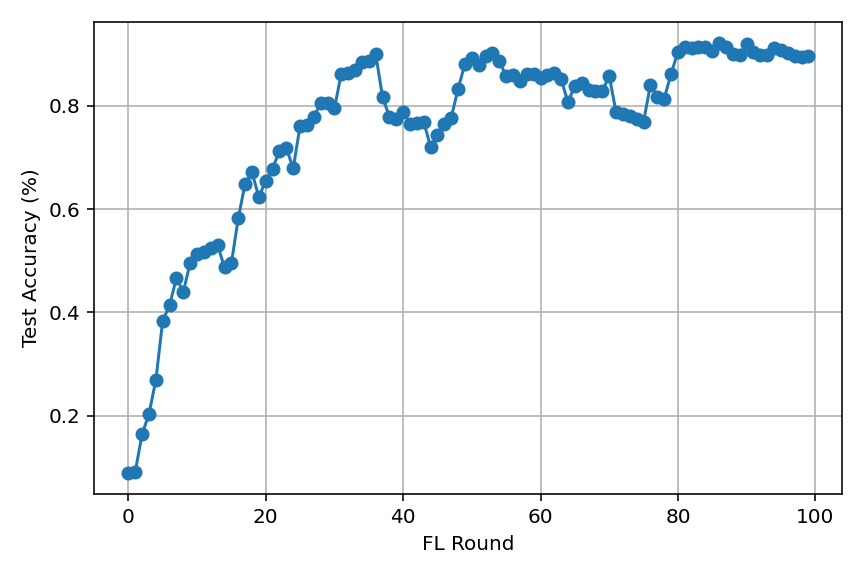
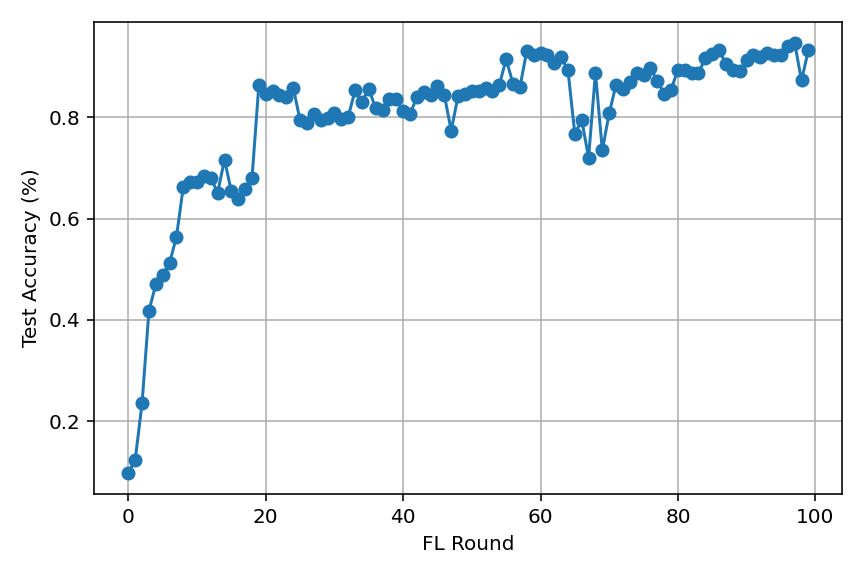
Reliability first

Changed region(s): [[0.0312, 0.0625, 0.9688, 0.8438], [0.0312, 0.1562, 0.0938, 0.2188], [0.0625, 0.3438, 0.0938, 0.4062]]

diff --git a/light_mappo/envs/env_core.py b/light_mappo/envs/env_core.py
@@ -28,7 +28,7 @@ class EnvCore(object):
 
         self.h_min = 100.0
         self.h_max = 500.0
-        self.dh_max = 20.0
+        self.dh_max = 10.0
 
         # Use same meaning as args.snr_th
         self.snr_th = 0
@@ -84,7 +84,9 @@ class EnvCore(object):
         
         self.h = init_altitudes(self.agent_num, self.h_min, self.h_max, seed=ep_seed + 1).astype(np.float32)
         self.last_selected = np.zeros(self.agent_num, dtype=np.float32)
-
+        self.sel_ema = np.zeros(self.agent_num, dtype=np.float32) 
+        self.prev_delta_h = np.zeros(self.agent_num, dtype=np.float32)
+        
         obs_n = self._build_obs()
         return [obs_n[i].astype(np.float32) for i in range(self.agent_num)]
 
@@ -98,7 +100,8 @@ class EnvCore(object):
     
         # ---- map policy outputs -> env variables ----
         delta_h = np.clip(a[:, 0], -1.0, 1.0) * self.dh_max                # meters
-        scores  = (np.clip(a[:, 1], -1.0, 1.0) + 1.0) * 0.5                # [0,1]
+        a1 = a[:, 1]                          # raw score head
+        scores = 0.5 * (np.tanh(a1) + 1.0)                # [0,1]
     
         # ---- altitude update with constraints (C1, C2) ----
         self.h = np.clip(self.h + delta_h, self.h_min, self.h_max).astype(np.float32)
@@ -129,6 +132,11 @@ class EnvCore(object):
         selected = np.zeros(self.agent_num, dtype=np.float32)
         selected[idx] = 1.0
     
+        rho = 0.05
+        p_star = self.K / float(self.agent_num)
+        fair_def = np.clip(p_star - self.sel_ema, 0.0, 1.0).astype(np.float32)
+        self.sel_ema = (1.0 - rho) * self.sel_ema + rho * selected
+
         # ============================================================
         # Reward matches your Problem Formulation:
         #   maximize sum_{selected} utility  - lambda_e * control_cost
@@ -138,9 +146,8 @@ class EnvCore(object):
         # Keep it simple + paper-aligned:
         # reliability is primary; optionally include data_ratio to prefer "useful updates".
         # If you later want fairness, add it in the *utility* (not as a separate extra term).
-        w_rel = 0.8
-        w_data = 0.2
-        u = (w_rel * q_soft + w_data * self.data_ratio).astype(np.float32)  # in [0,1] approx
+        w_rel, w_data, w_fair = 0.6, 0.3, 0.2
+        u = (w_rel*q_soft + w_data*self.data_ratio + w_fair*fair_def).astype(np.float32)  # in [0,1] approx
     
         # ---- Score calibration (so "score" really represents utility) ----
         # This is critical: without this, the agent can output arbitrary scores and still win Top-K.
@@ -156,18 +163,14 @@ class EnvCore(object):
         # ---- Control cost (c_j(t)) ----
         h_norm = (self.h - self.h_min) / (self.h_max - self.h_min + 1e-8)  # [0,1]
         up = np.clip(delta_h, 0.0, None)  # only penalize climbing
-    
-        # penalize: (i) being too high, (ii) upward moves
-        c_ctrl = (0.5 * (h_norm ** 2) + 0.5 * (up / (self.dh_max + 1e-8)) ** 2).astype(np.float32)
-    
-        # ---- Weights (paper hyperparameters) ----
-        # Think of lambda_e as your formulation trade-off.
-        lambda_e = 0.2
+        
+        switch_pen = -0.02 * ((delta_h * self.prev_delta_h) < 0).astype(np.float32) 
+        
         w_calib = 2.0
         w_util  = 2.0
         w_hard  = 1.0
     
-        reward_n = (w_calib * r_calib + w_util * r_util + w_hard * r_hard ).astype(np.float32)
+        reward_n = (w_calib * r_calib + w_util * r_util + w_hard * r_hard + switch_pen ).astype(np.float32)
     
         # ---- time update ----
         self.last_selected = selected
@@ -180,15 +183,7 @@ class EnvCore(object):
         rew_list = [[float(reward_n[i])] for i in range(self.agent_num)]
         done_list = [bool(done) for _ in range(self.agent_num)]
     
-        # ---- a few prints (not overwhelming) to catch "everyone same height" collapse ----
-        if (self.t % 20) == 0:
-            h_std = float(np.std(self.h))
-            mean_h = float(np.mean(self.h))
-            mean_up = float(np.mean(up))
-            sel_h_std = float(np.std(self.h[idx]))
-            print(f"[t={self.t:03d}] h_std={h_std:.2f}, mean_h={mean_h:.2f} | sel_h_std={sel_h_std:.2f} | mean_up={mean_up:.2f}")
-            print(f"          sel_idx={idx} | corr(score,u)={float(np.corrcoef(scores, u)[0,1]):.2f} | sel_snr={float(np.mean(snr_avg_db[idx])):.2f} dB")
-    
+   
         info = {
             "mean_snr_db": float(np.mean(snr_avg_db)),
             "mean_h": float(np.mean(self.h)),
@@ -197,6 +192,8 @@ class EnvCore(object):
             "mean_u_sel": float(np.mean(u[idx])),
         }
         info_list = [info for _ in range(self.agent_num)]
+        
+    
     
         return [obs_list, rew_list, done_list, info_list]
     

diff --git a/main.py b/main.py
@@ -288,29 +288,16 @@ def main():
             a0 = actions[:, 0]
             a1 = actions[:, 1]
            
-            # --- RAW policy outputs (before any decoding) ---
-          # print every 10 rounds to avoid spam
-            print(f"[Round {r:02d}] RAW a0 (dh head)  min/mean/max: {a0.min():.3f}/{a0.mean():.3f}/{a0.max():.3f}")
-            print(f"[Round {r:02d}] RAW a1 (score head) min/mean/max: {a1.min():.3f}/{a1.mean():.3f}/{a1.max():.3f}")
-            
-            # --- how much would be clipped if you clip to [-1,1] ---
-            clip_frac_a0 = float(np.mean(np.abs(a0) > 1.0))
-            clip_frac_a1 = float(np.mean(np.abs(a1) > 1.0))
-        
-            print(f"[Round {r:02d}] clip_frac a0={clip_frac_a0:.2f} | a1={clip_frac_a1:.2f}")
-                       
+          
             # EXACT same decoding as training EnvCore
             dh = np.clip(a0, -1.0, 1.0) * args.delta_h_max           # meters
-            # scores = (np.clip(a1, -1.0, 1.0) + 1.0) * 0.5            # [0,1]
-            scores = 1.0 / (1.0 + np.exp(-a1))   # sigmoid -> (0,1)
-            
-            scores_clip = (np.clip(a1, -1.0, 1.0) + 1.0) * 0.5
-            scores_sig  = 1.0 / (1.0 + np.exp(-a1))
-            
-            
-            print(f"[Round {r:02d}] scores_clip min/mean/max: {scores_clip.min():.3f}/{scores_clip.mean():.3f}/{scores_clip.max():.3f}")
-            print(f"[Round {r:02d}] scores_sig  min/mean/max: {scores_sig.min():.3f}/{scores_sig.mean():.3f}/{scores_sig.max():.3f}")
-                
+            scores = 0.5 * (np.tanh(a1) + 1.0)
+            # print("scores", scores)
+            # top = np.argsort(scores)[-args.active_UE:]
+            # clip_frac_a0 = float(np.mean(np.abs(a0) > 1.0))
+            # print(f"[Round {r:02d}] a0 raw min/mean/max {a0.min():.2f}/{a0.mean():.2f}/{a0.max():.2f} | clip_frac={clip_frac_a0:.2f}")
+            # print(f"[Round {r:02d}] score(tanh) min/mean/max {scores.min():.3f}/{scores.mean():.3f}/{scores.max():.3f} | TopK scores {np.round(scores[top],3)}")
+           
             # altitude update
             if args.marl_mode in ["full", "altitude_only"]:
                 h = np.clip(h + dh, h_min, h_max).astype(np.float32)
@@ -329,6 +316,7 @@ def main():
             if args.marl_mode in ["full", "selection_only"]:
                 # Use MARL scores for Top-K
                 idxs_users = np.argsort(scores)[-args.active_UE:]
+                # print("selected users", idxs_users)
             else:
                 # altitude_only: do NOT use scores
                 if args.alt_only_selector == "greedy_channel":
@@ -350,19 +338,19 @@ def main():
         else:
             p_succ = np.ones_like(snr_db)
          # ---- DEBUG (put it HERE) ----
-        # print(f"\n[Round {r:02d}] Per-UAV Channel Stats:")
-        # print("UAV |   x (m)  |   y (m)  | Height (m) | Elevation (deg) |  P_LoS  |  PL_avg (dB) |  SNR (dB)")
-        # print("-" * 95)
+        print(f"\n[Round {r:02d}] Per-UAV Channel Stats:")
+        print("UAV |   x (m)  |   y (m)  | Height (m) | Elevation (deg) |  P_LoS  |  PL_avg (dB) |  SNR (dB)")
+        print("-" * 95)
          
-        # for i in range(args.total_UE):
-        #      print(f"{i:3d} | "
-        #                f"{x_uav[i]:8.2f} | "
-        #                f"{y_uav[i]:8.2f} | "
-        #                f"{h_uav[i]:10.2f} | "
-        #                f"{theta[i]:15.2f} | "
-        #                f"{P_LoS[i]:7.3f} | "
-        #                f"{PL_db[i]:12.2f} | "
-        #                f"{snr_db[i]:9.2f}")
+        for i in range(args.total_UE):
+             print(f"{i:3d} | "
+                       f"{x_uav[i]:8.2f} | "
+                       f"{y_uav[i]:8.2f} | "
+                       f"{h_uav[i]:10.2f} | "
+                       f"{theta[i]:15.2f} | "
+                       f"{P_LoS[i]:7.3f} | "
+                       f"{PL_db[i]:12.2f} | "
+                       f"{snr_db[i]:9.2f}")
        
          # This is to plot the positions of the UAVs
         # plot_uav_xy(x_uav, y_uav, x_bs, y_bs, round_id=r)

diff --git a/utils1/options.py b/utils1/options.py
@@ -26,7 +26,7 @@ def args_parser():
     # Experiment switches
     
     #change this for method
-    parser.add_argument('--seed', type=int, default=5) #1
+    parser.add_argument('--seed', type=int, default=2) #1
     parser.add_argument('--method', type=str, default='marl',choices=['random', 'greedy_channel', 'marl'],help='Client selection method')
     parser.add_argument('--marl_mode', type=str, default='altitude_only',choices=['full', 'selection_only', 'altitude_only'])
     parser.add_argument('--alt_only_selector', type=str, default='greedy_channel', choices=['greedy_channel', 'random'])
@@ -50,7 +50,7 @@ def args_parser():
  # --- Altitude bounds (for MARL / scenario) ---
     parser.add_argument('--h_min', type=float, default=100.0)
     parser.add_argument('--h_max', type=float, default=500.0)
-    parser.add_argument('--delta_h_max', type=float, default=20.0)
+    parser.add_argument('--delta_h_max', type=float, default=10.0)
 
     # --- MARL training switches ---
     parser.add_argument('--train_marl', action='store_true', default=False)

diff --git a/light_mappo/train/plot_results.py b/light_mappo/train/plot_results.py
@@ -29,7 +29,7 @@ def plot_key_from_summary(summary_path, key_substring, out_png):
 
 
 if __name__ == "__main__":
-    run_dir = Path(r"C:\Users\USER\Desktop\conference\SimCode\light_mappo\results\MyEnv\MyEnv\mappo\check\run46\logs")
+    run_dir = Path(r"C:\Users\USER\Desktop\conference\SimCode\light_mappo\results\MyEnv\MyEnv\mappo\check\run51\logs")
     summary_path = run_dir / "summary.json"
 
     # plot_key_from_summary(summary_path, "average_episode_rewards", run_dir / "avg_reward.png")

diff --git a/light_mappo/train/train.py b/light_mappo/train/train.py
@@ -20,12 +20,11 @@ sys.path.insert(0, project_root)
 # Optional but helpful: ensure relative paths (results/, etc.) are created under light_mappo-main
 os.chdir(light_mappo_root)
 
-import socket
 import setproctitle
 import numpy as np
 from pathlib import Path
 import torch
-import json
+
 
 # Get the parent directory of the current file
 parent_dir = os.path.abspath(os.path.join(os.getcwd(), "."))

diff --git a/light_mappo/config.py b/light_mappo/config.py
@@ -206,7 +206,7 @@ def get_config():
     parser.add_argument(
         "--num_env_steps",
         type=int,
-        default=500000,
+        default=2500000,
         help="Number of environment steps to train (default: 10e6)",
     ) #was 10e6
     parser.add_argument(
